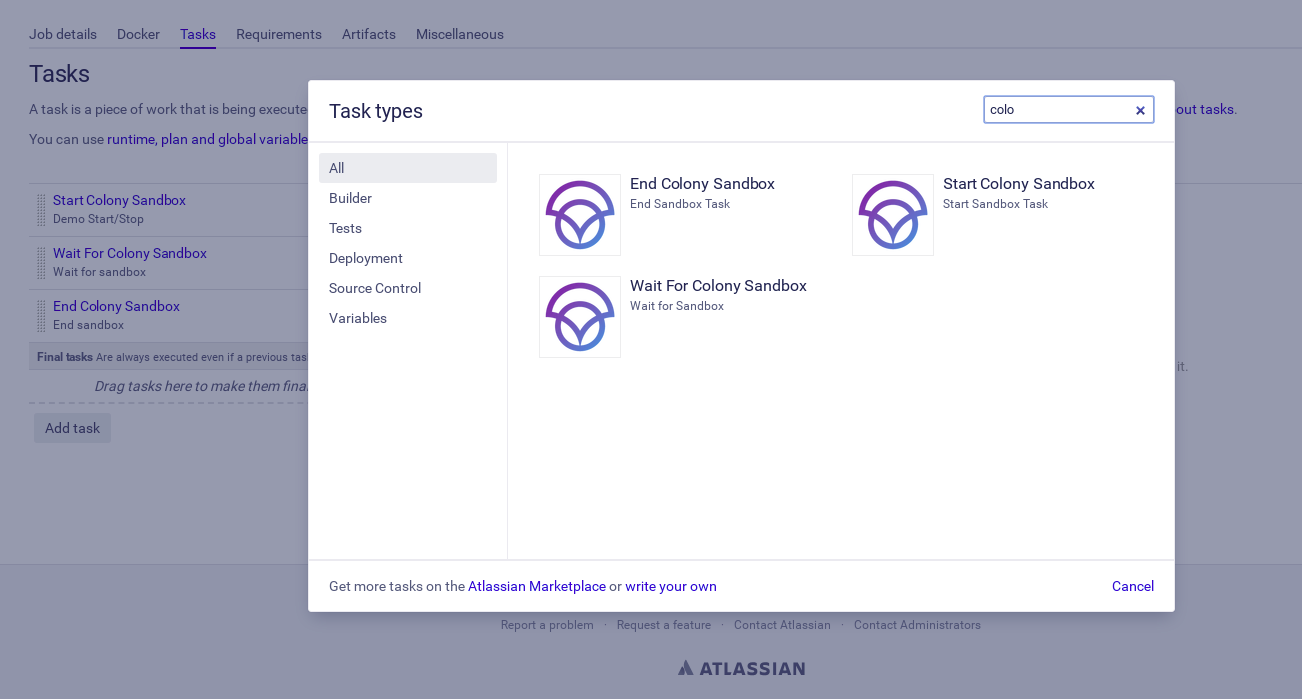
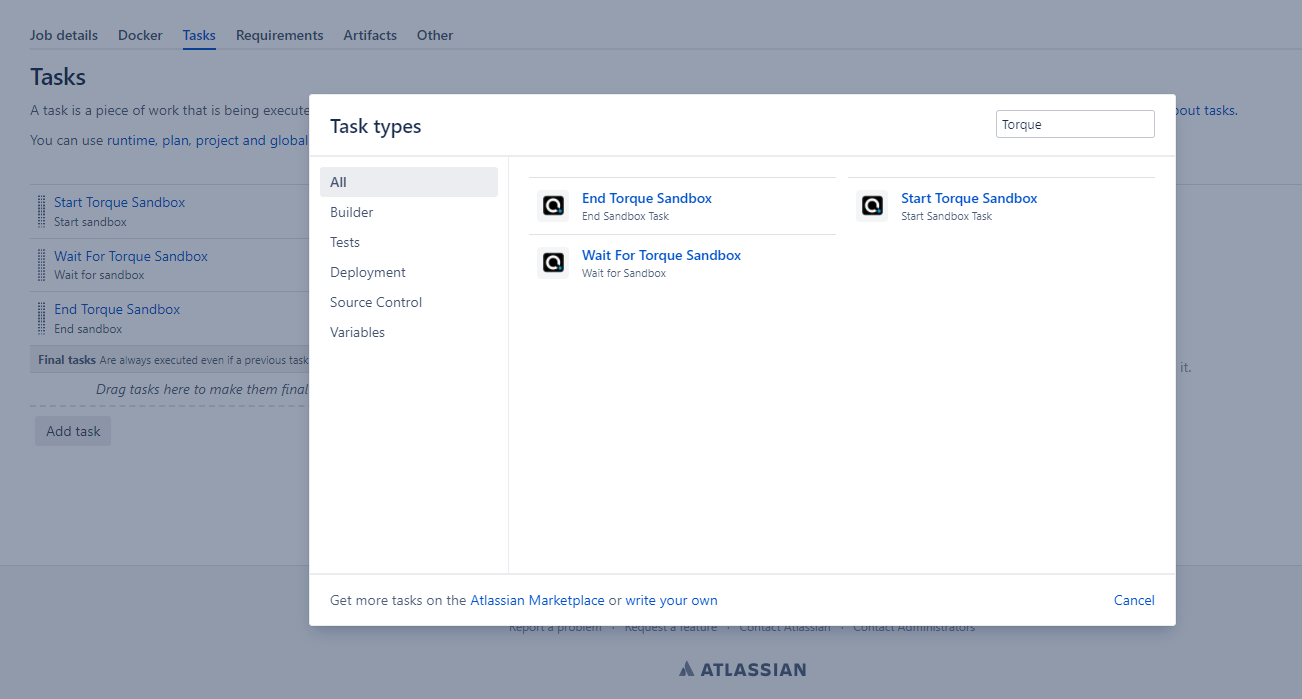
6778 rebrand to torque (#3)
* Rebranded the screenshots.
* Implemented User-Agent: Torque-Plugin-Bamboo/1.0.0 .
* Removed unused log4j imports.
* Enhanced Task Exception handling.

diff --git a/src/main/java/com/atlassian/plugins/quali/torque/service/SandboxAPIServiceImpl.java b/src/main/java/com/atlassian/plugins/quali/torque/service/SandboxAPIServiceImpl.java
@@ -15,6 +15,7 @@ import java.util.concurrent.TimeUnit;
 public class SandboxAPIServiceImpl implements SandboxAPIService{
     private SandboxAPISpec sandboxAPI;
     private SandboxServiceConnection connection;
+
     public SandboxAPIServiceImpl(SandboxServiceConnection connection) {
         this.connection = connection;
 
@@ -23,6 +24,10 @@ public class SandboxAPIServiceImpl implements SandboxAPIService{
         OkHttpClient.Builder builder = new OkHttpClient.Builder();
         builder.connectTimeout(connection.connectionTimeoutSec,TimeUnit.SECONDS);
         builder.readTimeout(connection.readTimeoutSec, TimeUnit.SECONDS);
+
+        OkHttpClientBuilderExtensions.injectHeader(builder,
+                "User-Agent", "Torque-Plugin-Bamboo/" + VersionUtils.PACKAGE_VERSION);
+
         OkHttpClient client= builder.build();
 
         String baseUrl = String.format("%1$s",connection.address);

diff --git a/src/main/java/com/atlassian/plugins/quali/torque/service/VersionUtils.java b/src/main/java/com/atlassian/plugins/quali/torque/service/VersionUtils.java
@@ -1,0 +1,23 @@
+package com.atlassian.plugins.quali.torque.service;
+
+import java.io.IOException;
+import java.util.Properties;
+
+public class VersionUtils {
+
+    public static final String PACKAGE_VERSION;
+
+    static {
+        try {
+            PACKAGE_VERSION = getPackageVersion();
+        } catch (IOException e) {
+            throw new RuntimeException("Error while initializing VersionUtils.", e);
+        }
+    }
+
+    private static String getPackageVersion() throws IOException {
+        Properties properties = new Properties();
+        properties.load(VersionUtils.class.getClassLoader().getResourceAsStream("bamboo-torque-plugin.properties"));
+        return properties.getProperty("package.version");
+    }
+}

diff --git a/src/main/java/com/atlassian/plugins/quali/torque/service/OkHttpClientBuilderExtensions.java b/src/main/java/com/atlassian/plugins/quali/torque/service/OkHttpClientBuilderExtensions.java
@@ -1,0 +1,20 @@
+package com.atlassian.plugins.quali.torque.service;
+
+import okhttp3.Interceptor;
+import okhttp3.OkHttpClient;
+import okhttp3.Request;
+
+import java.io.IOException;
+
+public class OkHttpClientBuilderExtensions {
+    public static void injectHeader(OkHttpClient.Builder builder, String name, String value)
+    {
+        builder.addInterceptor(new Interceptor() {
+            @Override
+            public okhttp3.Response intercept(Chain chain) throws IOException {
+                Request request = chain.request().newBuilder().addHeader(name, value).build();
+                return chain.proceed(request);
+            }
+        });
+    }
+}

diff --git a/src/main/java/com/atlassian/plugins/quali/torque/tasks/WaitForSandboxTask.java b/src/main/java/com/atlassian/plugins/quali/torque/tasks/WaitForSandboxTask.java
@@ -65,7 +65,7 @@ public class WaitForSandboxTask implements TaskType{
         try {
             jsonRes = waitForSandbox(spaceName, sandboxId, timeout, buildLogger);
         } catch (Exception e) {
-            throw new TaskException(String.format("Unable to complete a task. Details:\n%s", e.getMessage()));
+            throw new TaskException(String.format("Unable to complete a task. Details:\n%s", e.getMessage()), e);
         }
         setVariable(taskContext, varDetails, jsonRes);
         Map<String,List<String>> endpoints = getSandboxEndpoints(jsonRes, buildLogger);

diff --git a/src/main/java/com/atlassian/plugins/quali/torque/tasks/EndSandboxTask.java b/src/main/java/com/atlassian/plugins/quali/torque/tasks/EndSandboxTask.java
@@ -42,8 +42,8 @@ public class EndSandboxTask implements TaskType
             res = sandboxAPIService.deleteSandbox(spaceName, sandboxId);
         }
         catch (Exception e) {
-            buildLogger.addBuildLogEntry("Unable to stop sandbox");
-            throw new TaskException(e.getMessage());
+            buildLogger.addErrorLogEntry("Unable to stop sandbox", e);
+            throw new TaskException(e.getMessage(), e);
         }
 
         if(!res.isSuccessful())

diff --git a/src/main/java/com/atlassian/plugins/quali/torque/tasks/StartSandboxTask.java b/src/main/java/com/atlassian/plugins/quali/torque/tasks/StartSandboxTask.java
@@ -66,8 +66,8 @@ public class StartSandboxTask implements TaskType
             res = sandboxAPIService.createSandbox(spaceName, req);
         }
         catch (Exception e) {
-            buildLogger.addErrorLogEntry("Unable to start sandbox");
-            throw new TaskException(e.getMessage());
+            buildLogger.addErrorLogEntry("Unable to start sandbox", e);
+            throw new TaskException(e.getMessage(), e);
         }
 
         if(!res.isSuccessful())

diff --git a/src/main/java/com/atlassian/plugins/quali/torque/tasks/EndSandboxTaskConfigurator.java b/src/main/java/com/atlassian/plugins/quali/torque/tasks/EndSandboxTaskConfigurator.java
@@ -6,7 +6,6 @@ import com.atlassian.bamboo.task.TaskDefinition;
 import com.atlassian.bamboo.utils.error.ErrorCollection;
 import com.opensymphony.xwork.TextProvider;
 import org.apache.commons.lang.StringUtils;
-import org.apache.log4j.Logger;
 import org.jetbrains.annotations.NotNull;
 import org.jetbrains.annotations.Nullable;
 

diff --git a/src/main/java/com/atlassian/plugins/quali/torque/tasks/StartSandboxTaskConfigurator.java b/src/main/java/com/atlassian/plugins/quali/torque/tasks/StartSandboxTaskConfigurator.java
@@ -6,7 +6,6 @@ import com.atlassian.bamboo.task.TaskDefinition;
 import com.atlassian.bamboo.utils.error.ErrorCollection;
 import com.opensymphony.xwork.TextProvider;
 import org.apache.commons.lang.StringUtils;
-import org.apache.log4j.Logger;
 import org.jetbrains.annotations.NotNull;
 import org.jetbrains.annotations.Nullable;
 

diff --git a/src/main/java/com/atlassian/plugins/quali/torque/tasks/WaitForSandboxTaskConfigurator.java b/src/main/java/com/atlassian/plugins/quali/torque/tasks/WaitForSandboxTaskConfigurator.java
@@ -6,7 +6,6 @@ import com.atlassian.bamboo.task.TaskDefinition;
 import com.atlassian.bamboo.utils.error.ErrorCollection;
 import com.opensymphony.xwork.TextProvider;
 import org.apache.commons.lang.StringUtils;
-import org.apache.log4j.Logger;
 import org.jetbrains.annotations.NotNull;
 import org.jetbrains.annotations.Nullable;
 
